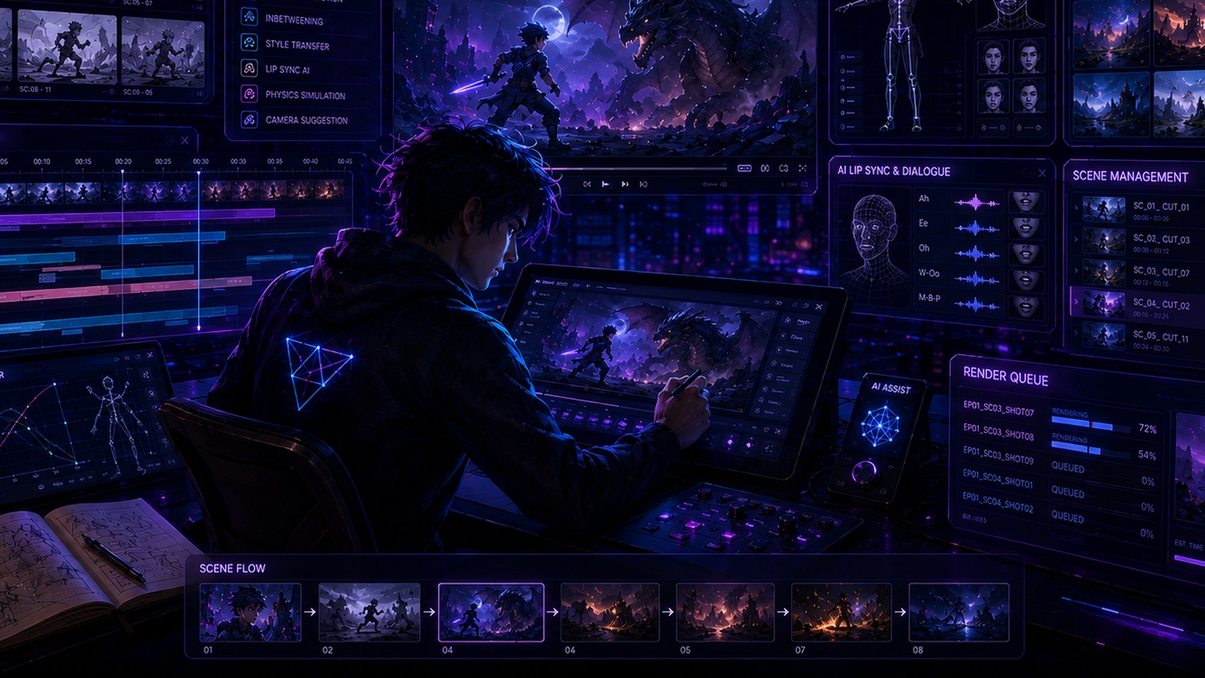
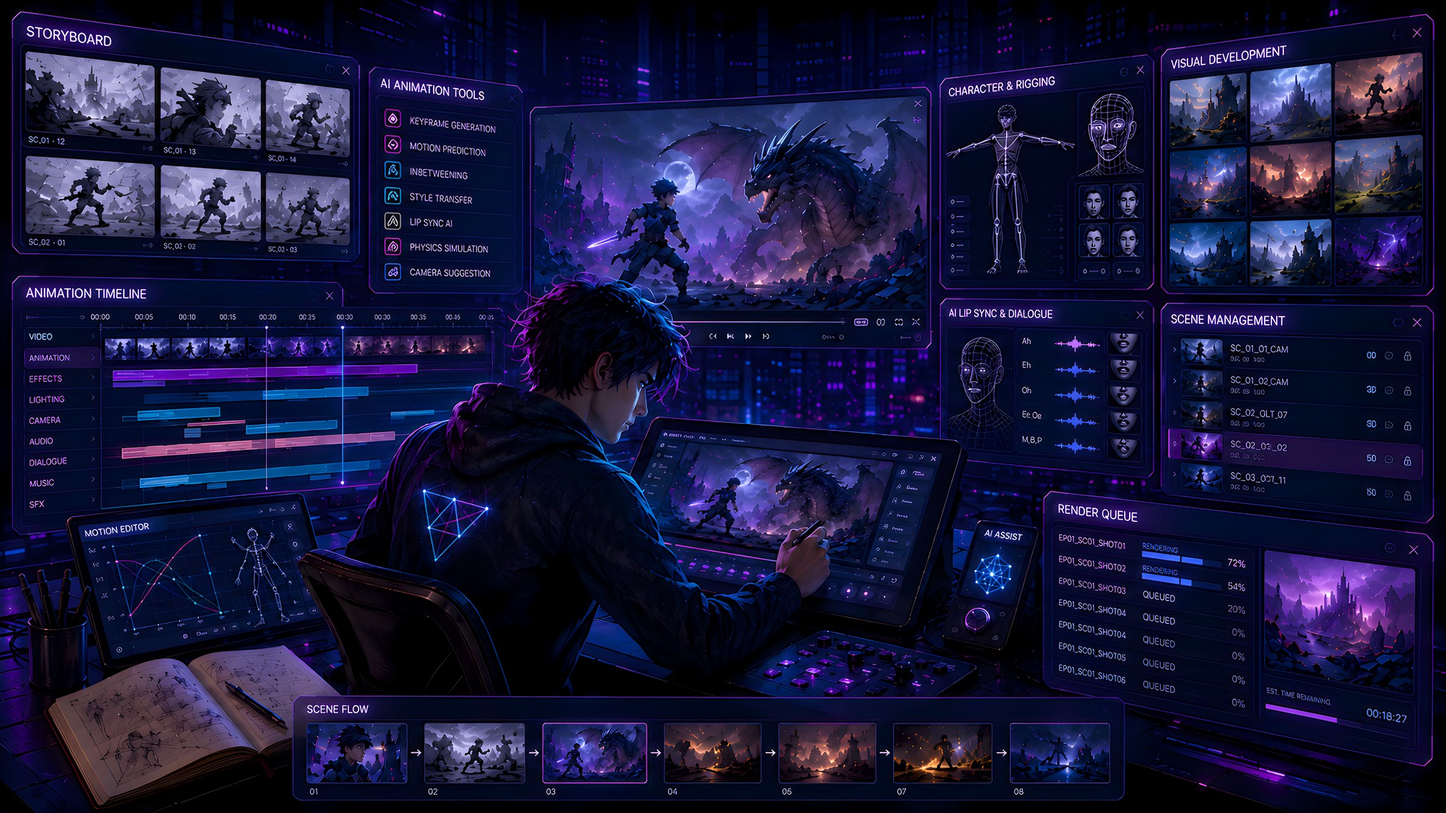
Make the artwork actually visible in both bands
The hero art was invisible. Cause: hero-bg.jpg has a mean brightness of
14.5/255 — it is an already-dark render — and it was then set to 62%
opacity underneath a heavy scrim. Three darkenings stacked on a dark
image left roughly nothing to see.

- Both images now render at full opacity. Readability comes from the
  scrim alone, which is heavy only where the copy sits and falls to zero
  across the right of the frame where the art shows
- Applied a gentle midtone lift to both plates (gamma 0.72, black point
  held) so they read on screen without the blacks going grey:
  hero 14.5 -> 23.1 mean, band 17.0 -> 26.5
- Copy columns constrained (46ch hero, 52ch band) plus a soft text shadow,
  so headline and lede stay inside the darkened half at any width
- Both bands given real height — 620px and 660px — so there is something
  to look at rather than a sliver
- Lower band now uses the title-free animation-studio plate, so no crop is
  needed and the full frame shows: storyboard, timeline, rigging, lip sync,
  scene management, render queue
- Both plates upscaled 4x locally with Real-ESRGAN and resampled to 2400px
- Mobile keeps the art with a vertical scrim instead of a side one

diff --git a/index.html b/index.html
@@ -46,43 +46,58 @@
 
   /* Hero band. The artwork sits behind the copy, not beside it, and a scrim
      keeps the headline readable no matter how bright the art gets. */
-  .hero-band{position:relative; overflow:hidden; border-bottom:1px solid var(--line-soft)}
+  .hero-band{position:relative; overflow:hidden; min-height:620px;
+             border-bottom:1px solid var(--line-soft); display:flex; flex-direction:column}
+  /* The artwork runs at full strength. Readability comes from the scrim below,
+     which is heavy only where the copy sits — not from dimming the whole image. */
   .hero-band::before{
     content:""; position:absolute; inset:0; z-index:0;
-    background:url("hero-bg.jpg") 58% 42% / cover no-repeat;
-    opacity:.62;
+    background:url("hero-bg.jpg") 60% 45% / cover no-repeat;
   }
   .hero-band::after{
     content:""; position:absolute; inset:0; z-index:1; pointer-events:none;
     background:
-      linear-gradient(90deg, var(--bg) 4%, rgba(8,10,18,.90) 38%, rgba(8,10,18,.30) 78%, rgba(8,10,18,.55) 100%),
-      linear-gradient(180deg, rgba(8,10,18,.60) 0%, transparent 26%, rgba(8,10,18,.97) 100%);
+      linear-gradient(90deg, rgba(8,10,18,.97) 0%, rgba(8,10,18,.93) 30%,
+                             rgba(8,10,18,.72) 48%, rgba(8,10,18,.18) 72%, rgba(8,10,18,0) 88%),
+      linear-gradient(180deg, rgba(8,10,18,.55) 0%, rgba(8,10,18,0) 22%,
+                              rgba(8,10,18,0) 72%, rgba(8,10,18,.88) 100%);
   }
   .hero-band .wrap{position:relative; z-index:2}
-  .hero-band .hero{padding:76px 0 66px}
+  .hero-band .hero{padding:70px 0 84px}
+  /* Keep the copy inside the darkened half so it never sits on bright artwork. */
+  .hero-band .sub{max-width:46ch}
+  .hero-band h1,.hero-band .sub{text-shadow:0 2px 18px rgba(4,6,12,.85)}
   /* Lower band — the animation studio art sits behind the guides section so the
      video side of the work gets shown too, without competing with the hero. */
-  .art-band{position:relative; overflow:hidden;
+  .art-band{position:relative; overflow:hidden; min-height:660px;
             border-top:1px solid var(--line-soft); border-bottom:1px solid var(--line-soft)}
   .art-band::before{
     content:""; position:absolute; inset:0; z-index:0;
-    background:url("band-bg.jpg") 42% 50% / cover no-repeat; opacity:.34;
+    background:url("band-bg.jpg") 50% 46% / cover no-repeat;
   }
   .art-band::after{
     content:""; position:absolute; inset:0; z-index:1; pointer-events:none;
     background:
-      linear-gradient(90deg, rgba(8,10,18,.94) 0%, rgba(8,10,18,.72) 46%, rgba(8,10,18,.34) 100%),
-      linear-gradient(180deg, var(--bg) 0%, transparent 22%, transparent 74%, var(--bg) 100%);
+      linear-gradient(90deg, rgba(8,10,18,.97) 0%, rgba(8,10,18,.94) 34%,
+                             rgba(8,10,18,.80) 54%, rgba(8,10,18,.34) 78%, rgba(8,10,18,.04) 100%),
+      linear-gradient(180deg, var(--bg) 0%, rgba(8,10,18,0) 26%,
+                              rgba(8,10,18,0) 74%, var(--bg) 100%);
   }
   .art-band > .wrap{position:relative; z-index:2}
-  .art-band section{border-top:0}
+  .art-band section{border-top:0; padding:88px 0 96px}
+  .art-band h2,.art-band .lede{text-shadow:0 2px 18px rgba(4,6,12,.9)}
+  .art-band .lede{max-width:52ch}
 
   @media (max-width:720px){
-    .art-band::before{opacity:.22}
-    .art-band::after{background:linear-gradient(180deg, var(--bg) 0%, rgba(8,10,18,.88) 40%, var(--bg) 100%)}
-    .hero-band::before{background-position:62% 38%; opacity:.3}
-    .hero-band::after{background:
-      linear-gradient(180deg, rgba(8,10,18,.78) 0%, rgba(8,10,18,.86) 45%, rgba(8,10,18,.97) 100%)}
+    .hero-band{min-height:0}
+    .art-band{min-height:0}
+    .art-band section{padding:56px 0 62px}
+    .art-band::before{background-position:56% 46%}
+    .art-band::after{background:linear-gradient(180deg, var(--bg) 0%, rgba(8,10,18,.84) 30%,
+                                                rgba(8,10,18,.84) 72%, var(--bg) 100%)}
+    .hero-band::before{background-position:58% 40%}
+    .hero-band::after{background:linear-gradient(180deg, rgba(8,10,18,.55) 0%, rgba(8,10,18,.86) 34%,
+                                                 rgba(8,10,18,.93) 100%)}
   }
 </style>
 </head>
